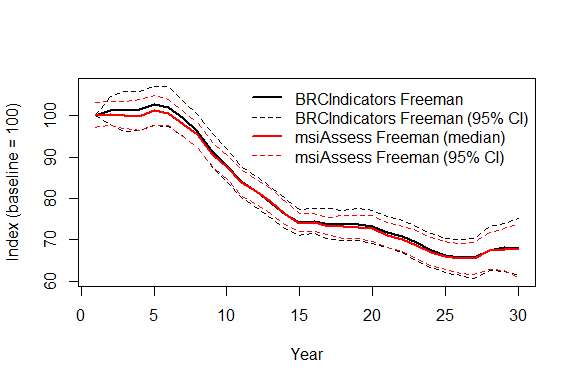
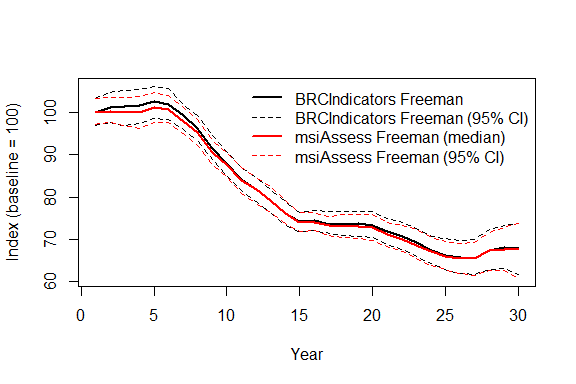
README update

diff --git a/README.md b/README.md
@@ -596,6 +596,7 @@ mod <- BRCindicators::bma(data = df_long,
                           parallel = TRUE,
                           seFromData = FALSE,
                           Y1perfect = TRUE,
+                          errorY1 = TRUE,
                           plot = FALSE,
                           n.iter = 1000, seed = 232680)
 ```
